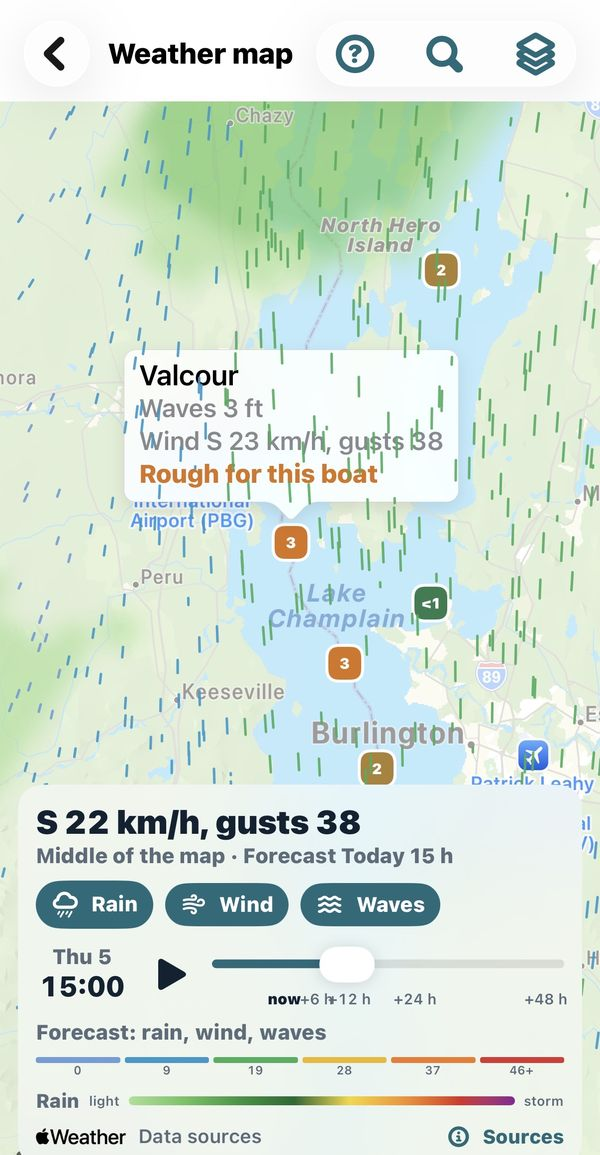
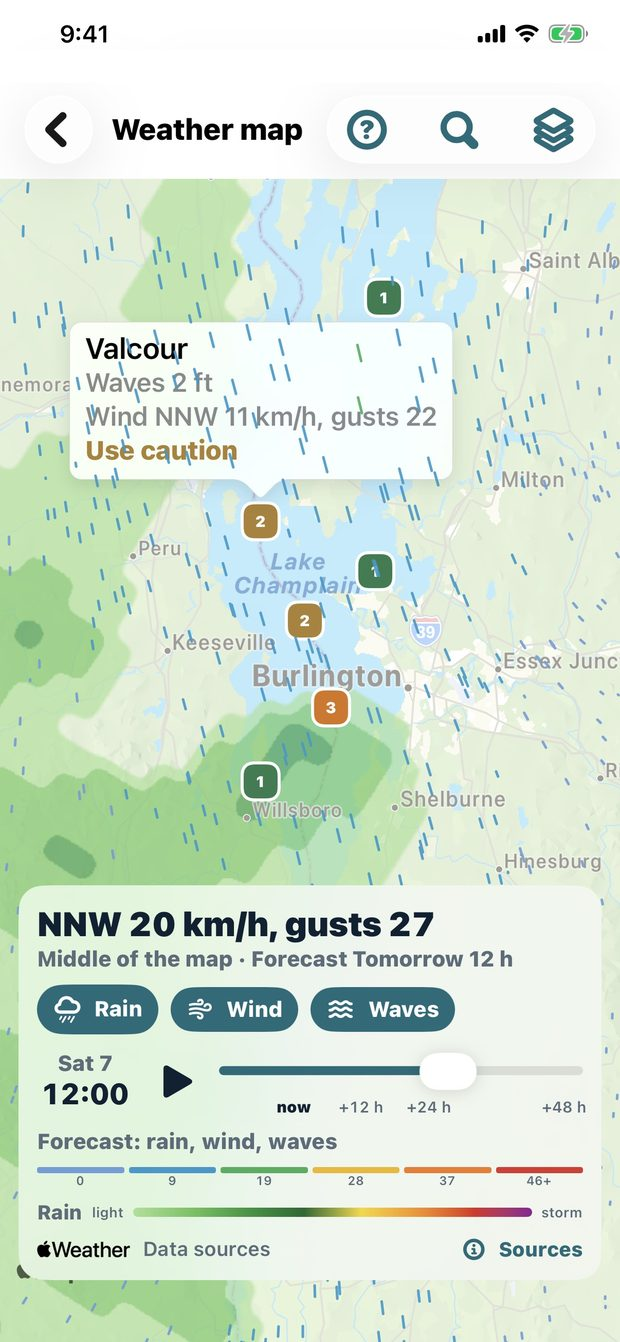
Website: the weather map in each language (with the time marks fixed)
Claude-Session: https://claude.ai/code/session_01L3i533V58JRPqQEedndtqT

diff --git a/fr/index.html b/fr/index.html
@@ -321,7 +321,7 @@ footer a{color:var(--on-night);text-decoration:none;margin-left:18px}
           <li>Le meilleur moment pour partir sur un trajet planifié</li>
         </ul>
       </div>
-      <div class="demo has-shot"><div class="shot"><img loading="lazy" src="/images/shot-04.jpg" alt="La carte météo sur le lac Champlain : flèches de vent, hauteur des vagues et relevé d’une bouée jugé agité pour ce bateau, avec un seul curseur de temps"></div></div>
+      <div class="demo has-shot"><div class="shot"><img loading="lazy" src="/images/fr/shot-04.jpg" alt="La carte météo sur le lac Champlain : flèches de vent, hauteur des vagues et relevé d’une bouée évalué pour ce bateau, avec un seul curseur de temps"></div></div>
     </article>
 
     <article class="feat flip">

diff --git a/es/index.html b/es/index.html
@@ -321,7 +321,7 @@ footer a{color:var(--on-night);text-decoration:none;margin-left:18px}
           <li>El mejor momento para salir en una ruta planificada</li>
         </ul>
       </div>
-      <div class="demo has-shot"><div class="shot"><img loading="lazy" src="/images/shot-04.jpg" alt="El mapa del tiempo en el lago Champlain: flechas de viento, altura de las olas y una boya marcada como movida para este barco, con un solo control de tiempo"></div></div>
+      <div class="demo has-shot"><div class="shot"><img loading="lazy" src="/images/es/shot-04.jpg" alt="El mapa del tiempo en el lago Champlain: flechas de viento, altura de las olas y una boya evaluada para esta embarcación, con un solo control de tiempo"></div></div>
     </article>
 
     <article class="feat flip">

diff --git a/it/index.html b/it/index.html
@@ -321,7 +321,7 @@ footer a{color:var(--on-night);text-decoration:none;margin-left:18px}
           <li>Il momento migliore per partire lungo una rotta pianificata</li>
         </ul>
       </div>
-      <div class="demo has-shot"><div class="shot"><img loading="lazy" src="/images/shot-04.jpg" alt="La mappa meteo sul lago Champlain: frecce del vento, altezze delle onde e una boa segnata come mosso per questa barca, con un solo cursore del tempo"></div></div>
+      <div class="demo has-shot"><div class="shot"><img loading="lazy" src="/images/it/shot-04.jpg" alt="La mappa meteo sul lago Champlain: frecce del vento, altezze delle onde e una boa valutata per questa barca, con un solo cursore del tempo"></div></div>
     </article>
 
     <article class="feat flip">

diff --git a/index.html b/index.html
@@ -321,7 +321,7 @@ footer a{color:var(--on-night);text-decoration:none;margin-left:18px}
           <li>The best time to leave along a planned route</li>
         </ul>
       </div>
-      <div class="demo has-shot"><div class="shot"><img loading="lazy" src="/images/shot-04.jpg" alt="The weather map on Lake Champlain: wind arrows, wave heights and a buoy reading marked rough for this boat, with one time slider"></div></div>
+      <div class="demo has-shot"><div class="shot"><img loading="lazy" src="/images/shot-04.jpg" alt="The weather map on Lake Champlain: wind arrows, wave heights and a buoy reading rated for this boat, with one time slider"></div></div>
     </article>
 
     <article class="feat flip">

diff --git a/_i18n/en-source.html b/_i18n/en-source.html
@@ -313,7 +313,7 @@ footer a{color:var(--on-night);text-decoration:none;margin-left:18px}
           <li>The best time to leave along a planned route</li>
         </ul>
       </div>
-      <div class="demo has-shot"><div class="shot"><img loading="lazy" src="images/shot-04.jpg" alt="The weather map on Lake Champlain: wind arrows, wave heights and a buoy reading marked rough for this boat, with one time slider"></div></div>
+      <div class="demo has-shot"><div class="shot"><img loading="lazy" src="images/shot-04.jpg" alt="The weather map on Lake Champlain: wind arrows, wave heights and a buoy reading rated for this boat, with one time slider"></div></div>
     </article>
 
     <article class="feat flip">

diff --git a/_i18n/tr.py b/_i18n/tr.py
@@ -37,7 +37,7 @@ T = {
 'Radar, rain forecast, wind and waves on one map with one time slider': ('Le radar, les prévisions de pluie, le vent et les vagues sur une seule carte, avec un seul curseur de temps', 'Radar, previsione di pioggia, vento e onde su un’unica mappa con un solo cursore del tempo', 'Radar, pronóstico de lluvia, viento y olas en un solo mapa con un solo control de tiempo'),
 'Real-time readings from the nearest buoys and stations': ('Les mesures en temps réel des bouées et des stations les plus proches', 'Cosa misurano adesso le boe e le stazioni più vicine', 'Lo que miden ahora mismo las boyas y estaciones más cercanas'),
 'The best time to leave along a planned route': ('Le meilleur moment pour partir sur un trajet planifié', 'Il momento migliore per partire lungo una rotta pianificata', 'El mejor momento para salir en una ruta planificada'),
-'The weather map on Lake Champlain: wind arrows, wave heights and a buoy reading marked rough for this boat, with one time slider': ('La carte météo sur le lac Champlain\xa0: flèches de vent, hauteur des vagues et relevé d’une bouée jugé agité pour ce bateau, avec un seul curseur de temps', 'La mappa meteo sul lago Champlain: frecce del vento, altezze delle onde e una boa segnata come mosso per questa barca, con un solo cursore del tempo', 'El mapa del tiempo en el lago Champlain: flechas de viento, altura de las olas y una boya marcada como movida para este barco, con un solo control de tiempo'),
+'The weather map on Lake Champlain: wind arrows, wave heights and a buoy reading rated for this boat, with one time slider': ('La carte météo sur le lac Champlain\xa0: flèches de vent, hauteur des vagues et relevé d’une bouée évalué pour ce bateau, avec un seul curseur de temps', 'La mappa meteo sul lago Champlain: frecce del vento, altezze delle onde e una boa valutata per questa barca, con un solo cursore del tempo', 'El mapa del tiempo en el lago Champlain: flechas de viento, altura de las olas y una boya evaluada para esta embarcación, con un solo control de tiempo'),
 'Fuel, maintenance and true cost': ('Carburant, entretien et coût réel', 'Carburante, manutenzione e costo reale', 'Combustible, mantenimiento y coste real'),
 'Know what your boat really costs, per hour': ('Sachez ce que votre bateau vous coûte vraiment, à l’heure', 'Scopri quanto costa davvero la tua barca, all’ora', 'Sabe lo que de verdad cuesta tu barco, por hora'),
 'Log fill-ups and services in seconds, scan the receipt, and let Dockbook remind you when the next oil change or impeller replacement is due, by engine hours or by date.': ('Notez vos pleins et vos entretiens en quelques secondes, numérisez le reçu, et laissez Dockbook vous rappeler quand arrive la prochaine vidange d’huile ou le prochain changement de turbine, selon les heures moteur ou la date.', 'Annota rifornimenti e tagliandi in pochi secondi, scansiona lo scontrino e lascia che Dockbook ti ricordi il prossimo cambio olio o la sostituzione della girante, in base alle ore motore o alla data.', 'Anota repostajes y mantenimientos en segundos, escanea el recibo y deja que Dockbook te recuerde el próximo cambio de aceite o de impulsor por horas de motor o por fecha.'),
